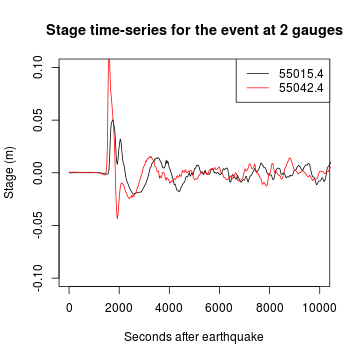
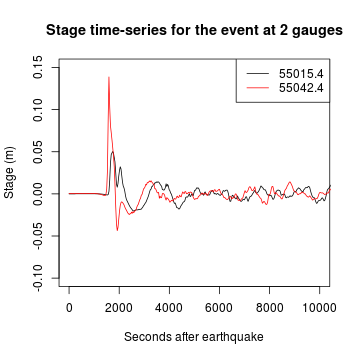
Fix the unit tests

diff --git a/ptha_access/README.md b/ptha_access/README.md
@@ -35,17 +35,18 @@ and its territories. We also store points at the locations of DART buoys
 (deep-ocean gauges which measure tsunami wave heights), as these are very
 useful for testing the model. In addition we store a 'thin' layer of results
 globally at the 100m contour, which is useful for testing our model and
-comparing with previous studies. **If using the global points, note that we
-ignore some earthquake-source zones that are not relevant for Australia (e.g.
-Carribbean, Mediterrean, Manila trench, eastern New Zealand, western Japan).
-Therefore outside of Australia, you should very carefully consider how to
-use the results, noting they may ignore the most relevant source-zones.**
+comparing with previous studies. **If using points far from Austraila, consider
+that we ignore tsunamigenic source zones that are not considered relevant for
+Australia (e.g.  in the Carribbean, the Mediterrean, the Manila trench,
+Kaikoura in New Zealand, western Japan). Therefore, outside of Australia, you
+should very carefully consider whether the results can be used, noting they may
+ignore the most relevant source-zones.**
 
 The peak-stage exceedance-rates describe 'how often' tsunami events occur with
 peak-stage above a particular threshold value. For example, you could ask how often
 peak-stages above 0.5m (or 2.0m) occur, in terms of the average number of events each year
 at a particular site. At most locations there would be less than one event each year, so
-the exceedance rates are typically small numbers (e.g. an exceedance-rate of
+the exceedance-rates are typically small numbers (e.g. an exceedance-rate of
 0.002=1/500 would correspond to one event every 500 years on average).
 Obviously this kind of information is important for understanding tsunami
 hazards. The simplest way to examine the tsunami peak-stage exceedance-rates in
@@ -199,10 +200,10 @@ The controls on the top left of the map can be expanded as shown in the figure.
 These should allow you to change the background layer, and to turn layers on
 and off.
 
-### ***Getting metadata on the earthquake events on each source-zone***
+### ***Obtaining metadata on the earthquake events on each source-zone***
 
 Earthquake event metadata is accessed on a per-source-zone basis. In a typical
-application you would use the detailed exceedance rate plots discussed above
+application you would use the detailed exceedance-rate plots discussed above
 to identify the main source-zones of interest for a particular site. Below
 we show an example using the `puysegur` source-zone, which is located just south
 of New Zealand, to the north of Macquarie Island.
@@ -404,7 +405,7 @@ we consider the high magnitude events are possible on the source-zone. You will
 notice that events at very large magnitudes always have a
 `weight_with_nonzero_rate` equal to zero.
 
-### ***Getting initial conditions for a single earthquake-tsunami event***
+### ***Obtaining initial conditions for a single earthquake-tsunami event***
 
 Suppose we want to get the initial conditions for the earthquake event on row
 3051 of `puysegur$events`.  (By initial conditions, we mean the initial water
@@ -463,7 +464,7 @@ initial_condition = get_initial_condition_for_event(puysegur, row_index, force_f
 ```
 
 
-### ***Getting hazard curves at a particular hazard point***
+### ***Obtaining hazard curves at a particular hazard point***
 
 FIXME: Integrate with above discussion. Consider showing how to download numeric
 curve values for a particular point.
@@ -528,7 +529,7 @@ dim(model_ts$flow[['55015.4']])
 # Example plot of stage
 plot(model_ts$time, model_ts$flow[['55015.4']][1,,1], t='l', 
     xlim=c(0,10000), xlab='Seconds after earthquake', ylab='Stage (m)',
-    ylim=c(-0.1, 0.1))
+    ylim=c(-0.1, 0.15))
 points(model_ts$time, model_ts$flow[['55042.4']][1,,1], t='l', 
     col='red')
 legend('topright', c('55015.4', '55042.4'), col=c('black', 'red'), lty=c(1,1))

diff --git a/ptha_access/INSTALL.md b/ptha_access/INSTALL.md
@@ -102,11 +102,14 @@ tests with:
 ```r
 source('test_all.R')
 ```
-This should print a number of 'PASS' statements, and no 'FAIL' statements.
+This should print a number of 'PASS' statements, and no 'FAIL' statements. It might 
+take a minute or more depending on your internet connection, because it reads datasets
+from the NCI THREDDS server as part of the test.
+
 Some of the tests will fail if you haven't installed the dependencies to read
 time-series. Beware some failures can occur if your internet connection is not
-performing well (or if there are issues with the NCI THREDDS server), so if the
-tests fail it is worth re-trying a few times to confirm it is not due to a transient
-network issue.
+performing well (or if there are issues with the NCI THREDDS server). Thus, if
+the tests fail it is worth re-trying a few times to confirm it is not due to a
+transient network issue.
 
 
